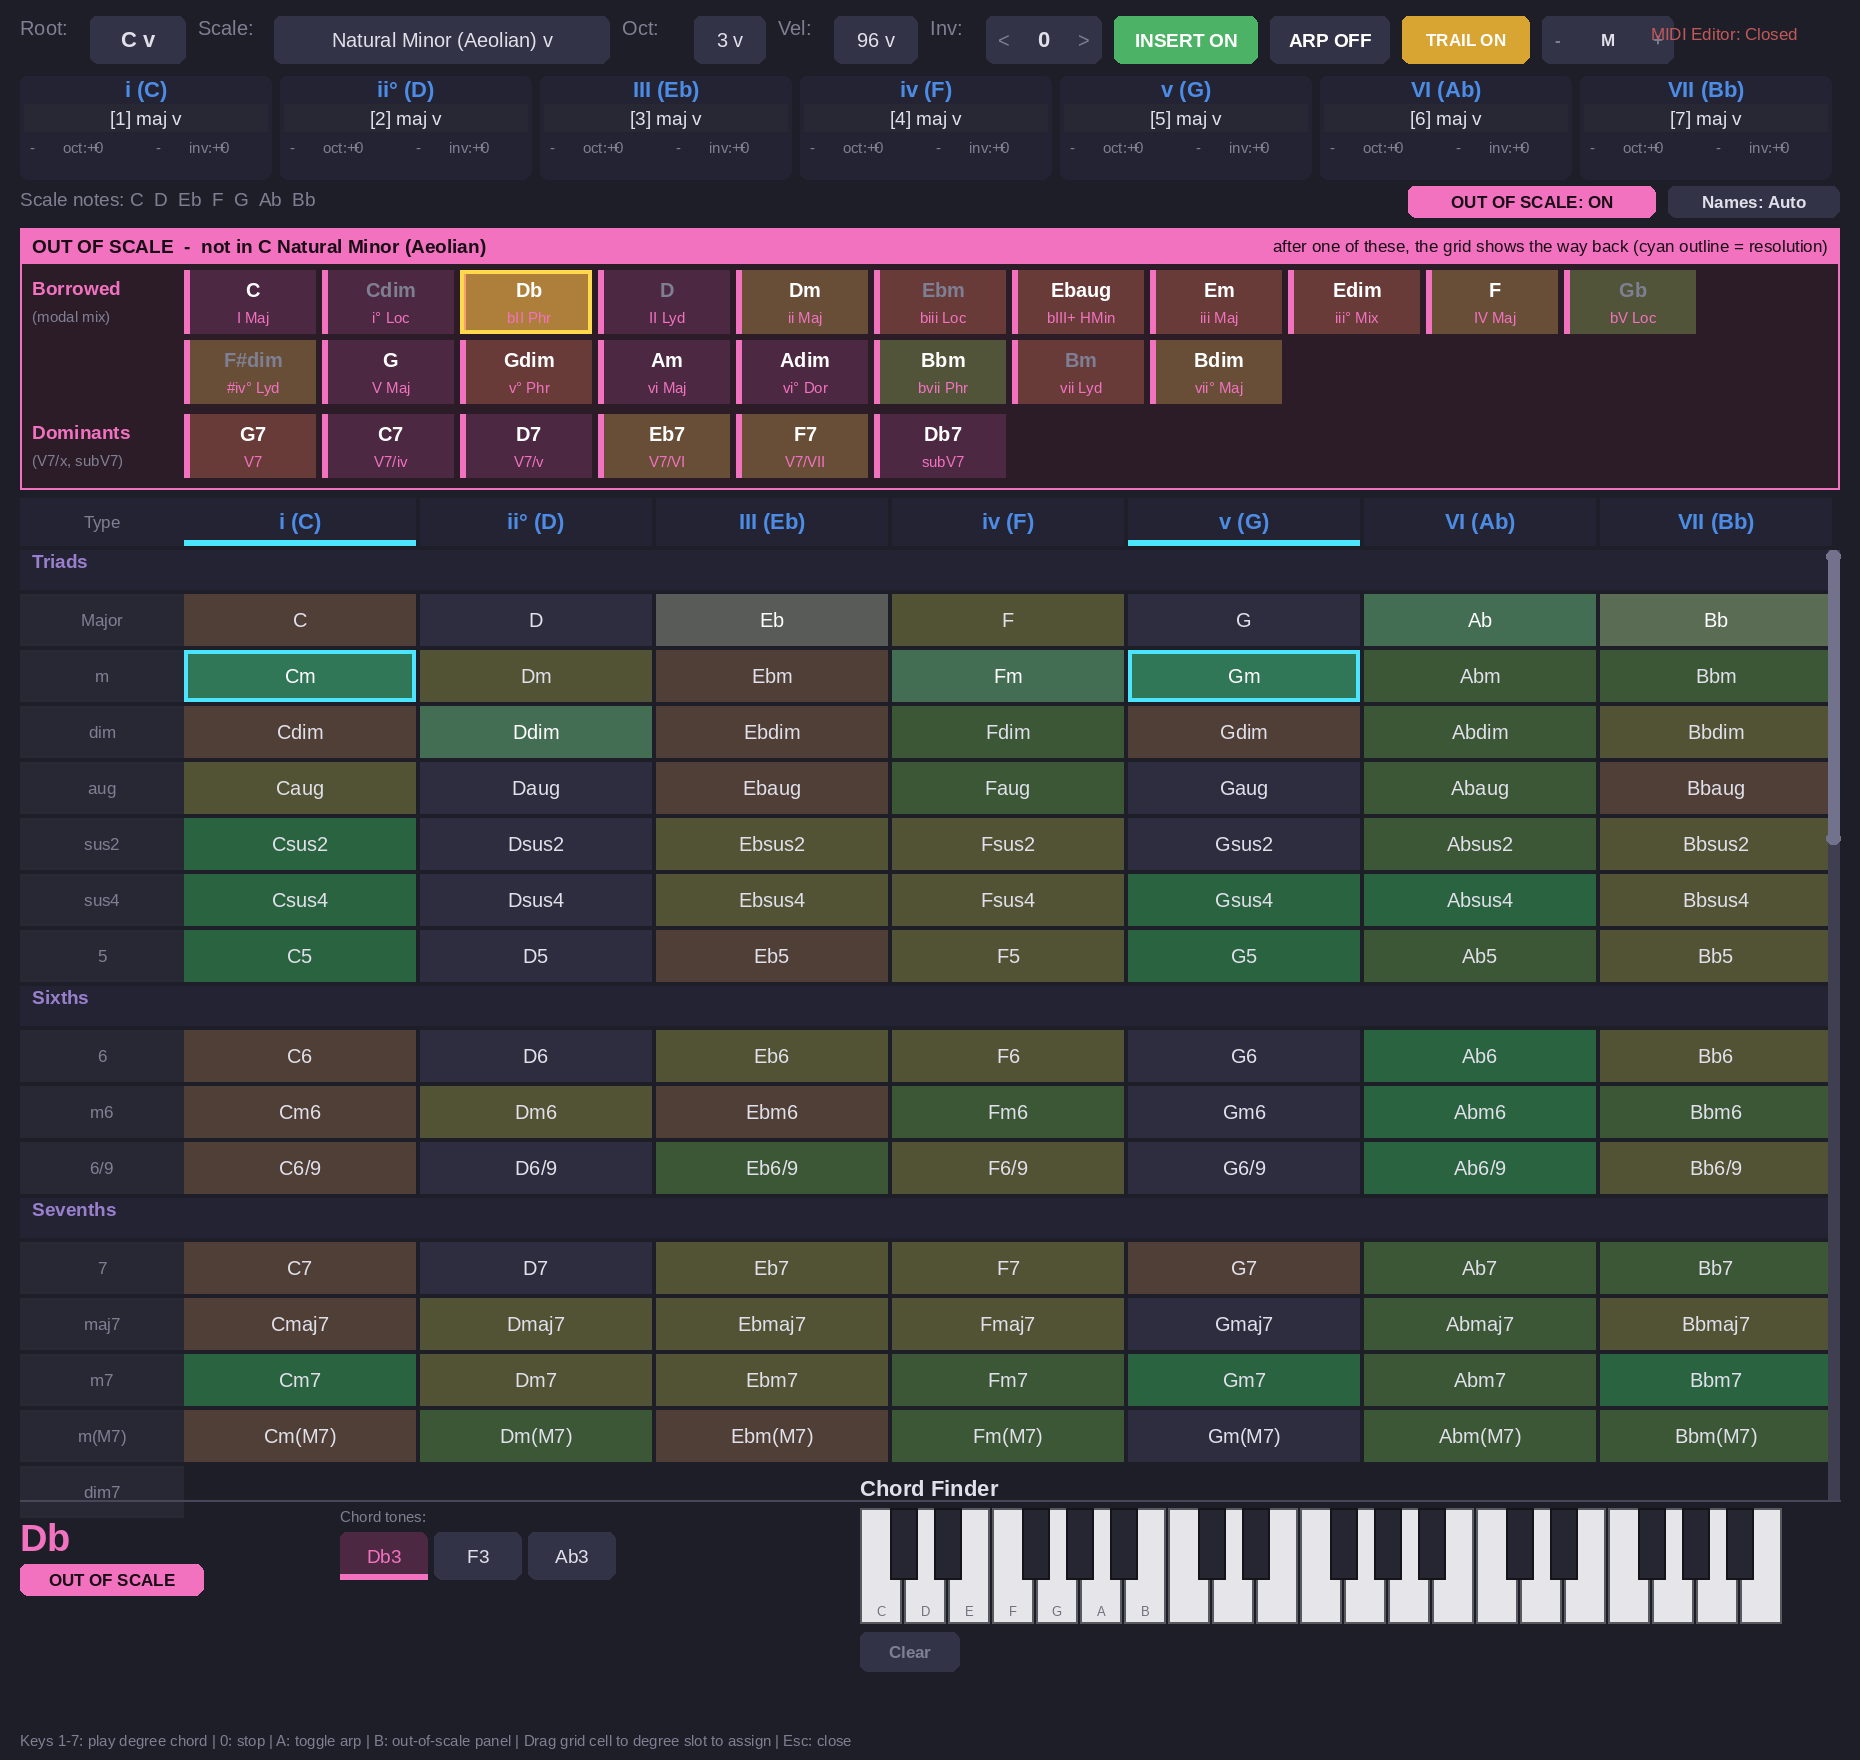
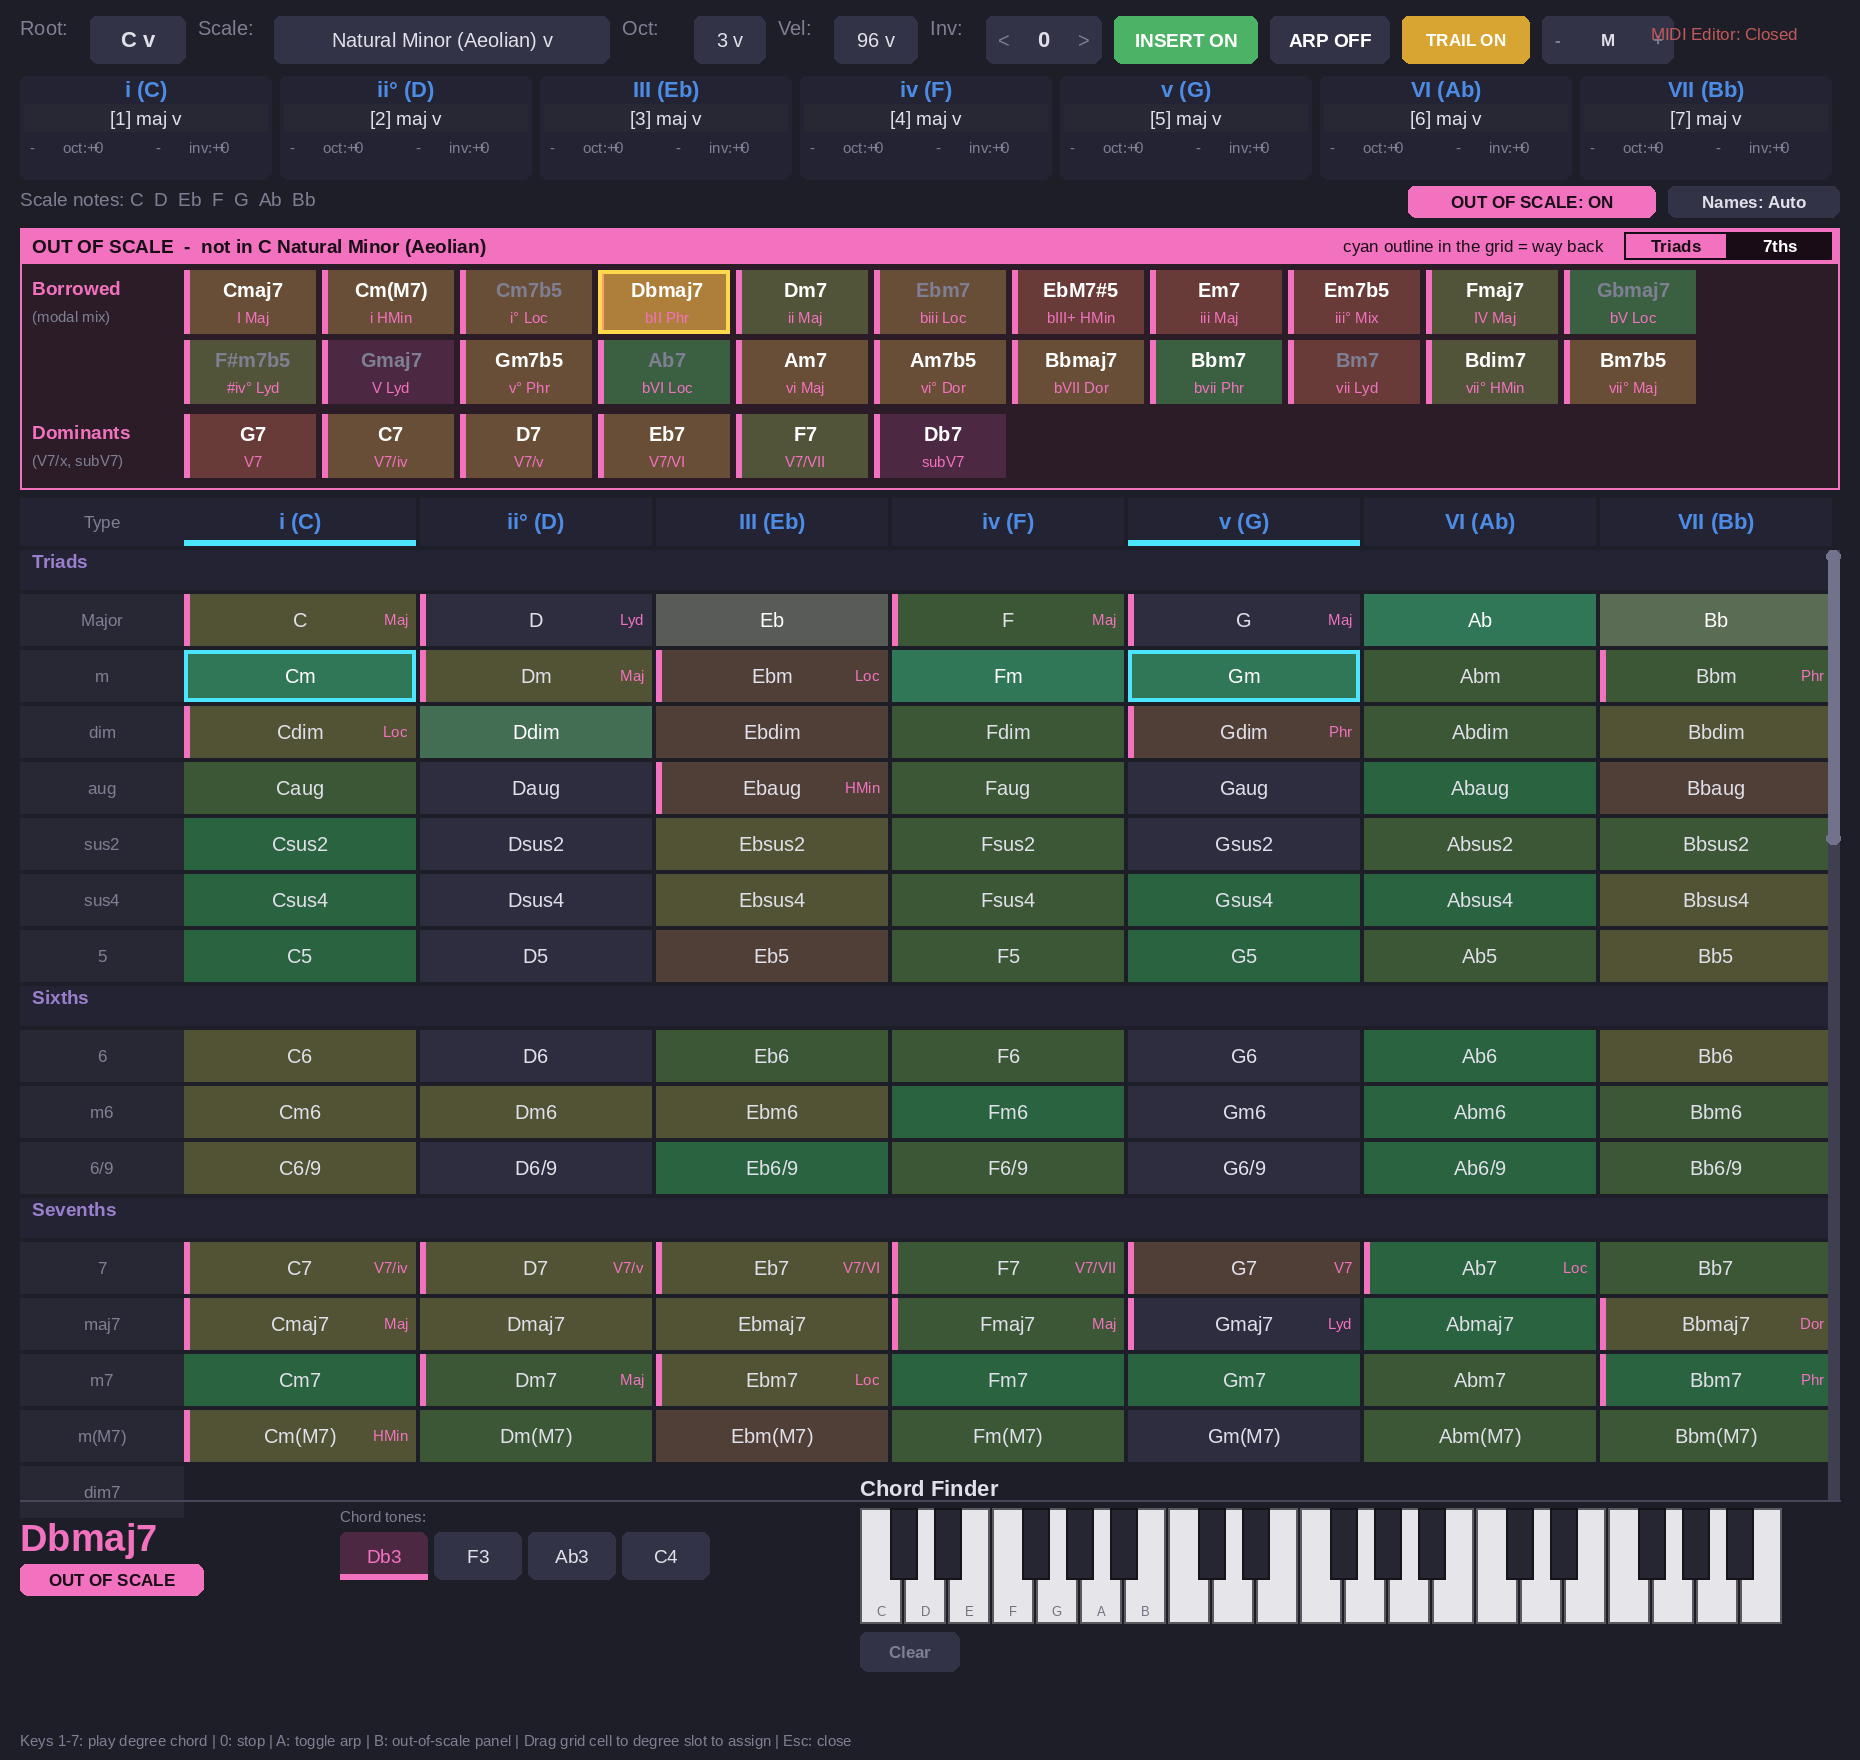
Add borrowed seventh chords and grid source tags (5.1.1)
The Borrowed group only offered triads, so a chord such as Dbmaj7 in
C minor could not be played at all: its root is outside the scale and
the grid has no column for it.

- Triads / 7ths switch in the panel title bar; in 7ths mode the group
  lists the seventh chords of the parallel scales
- Grid cells borrowed from a parallel scale get a magenta stripe and
  the source tag (Bbmaj7 in C minor shows "Dor")
- Resolution targets for a borrowed seventh follow its underlying triad

Claude-Session: https://claude.ai/code/session_01D2Nd3c6GDNE92dNS9cKrJe

diff --git a/README.md b/README.md
@@ -18,6 +18,10 @@ original `AdvancedChordGun.lua` is kept unchanged.
     Chords from rarely used sources (Lydian, Locrian) are dimmed.
   - **Dominants** -- secondary dominants (V7 of each major/minor degree) and the tritone
     substitute.
+  - **Triads / 7ths** switch in the panel title bar: the Borrowed group can show the
+    seventh chords of the same sources instead (`Dbmaj7`, `Fmaj7`, `Gm7b5` ...).
+- Grid cells that are borrowed from a parallel scale (for example `Bbmaj7` in C minor,
+  from Dorian) carry a magenta stripe and the source tag.
 - The existing green/yellow/orange next-chord tint also applies to these buttons.
 - **Way back** -- after an out-of-scale chord the grid is re-scored for resolution. The
   diatonic chords it resolves to get a cyan outline and the top tint, and their column
